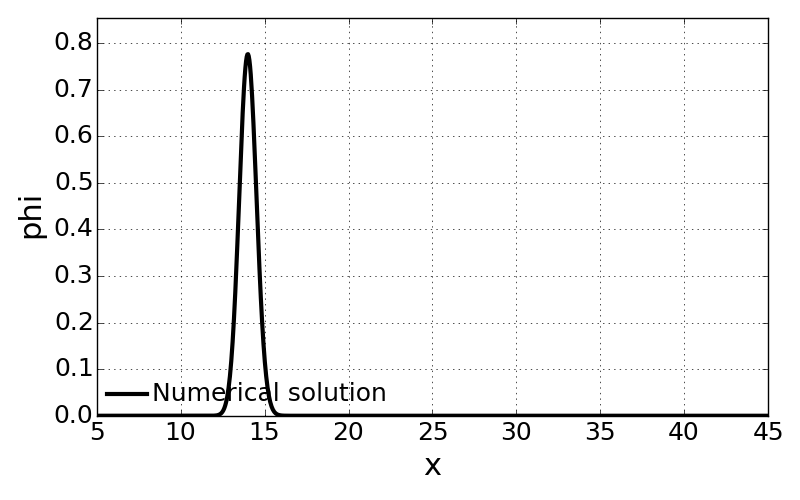
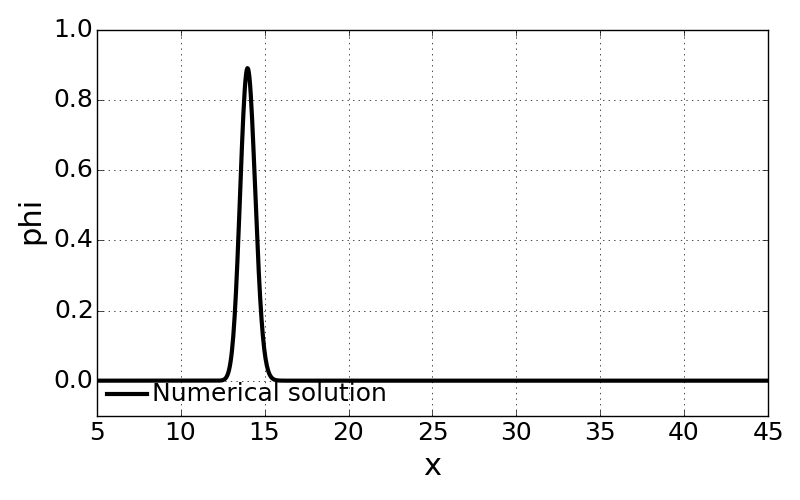
last running example case

diff --git a/src/functions/timeIntegrate.py b/src/functions/timeIntegrate.py
@@ -13,6 +13,7 @@ def timeIntegrate(inputDict):
    Cr      = float(inputDict['Courant'])
    imax    = int(inputDict['iDim'])
    maxIter = int(inputDict['maxIter'])
+   nIterWrite   = int(inputDict['nIterWrite'])
 
    # start to count time for calculting computation performance
    start = time.clock()
@@ -81,6 +82,7 @@ def timeIntegrate(inputDict):
 
       #print flowVars.exac
       if (t >= tEnd or nIter >= maxIter): break
+      if (nIter % nIterWrite == 0): plotSolution(t)
 
    # EXPLICIT solution: will run only if alphaImp is zero.
    # This will solve following relation:

diff --git a/src/functions/post.py b/src/functions/post.py
@@ -8,8 +8,8 @@ def plotSolution(time):
    pltFile = 'solution_%5.3f.png' % float(time)
    MinX = min(x)
    MaxX = max(x)
-   MinY = min(phi)
-   MaxY = 1.1*max(phi)
+   MinY = -0.1#min(phi)
+   MaxY = 1.0#1.1*max(phi)
 
    p = plt.plot(x,phi, 'k-', label='Numerical solution')
    plt.setp(p, linewidth='3.0')
